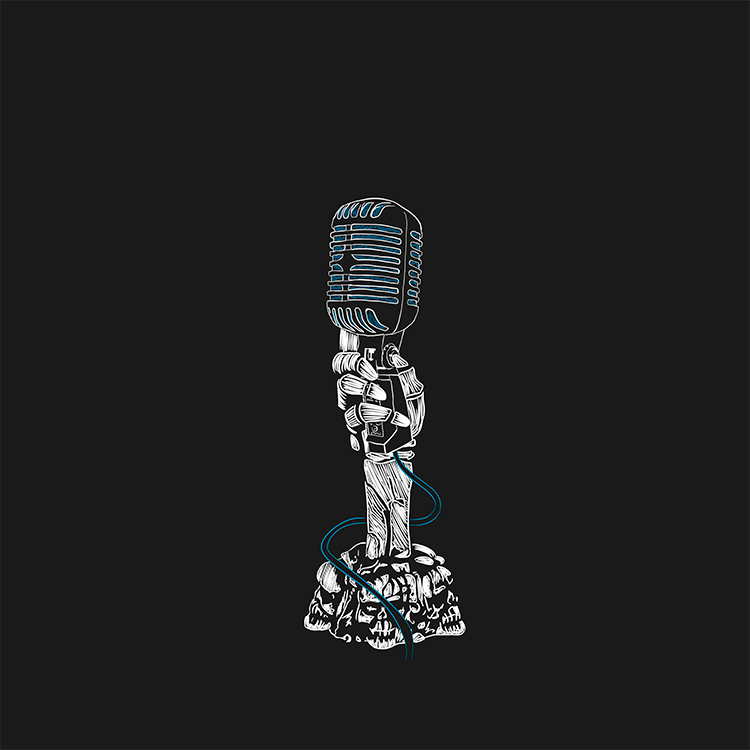
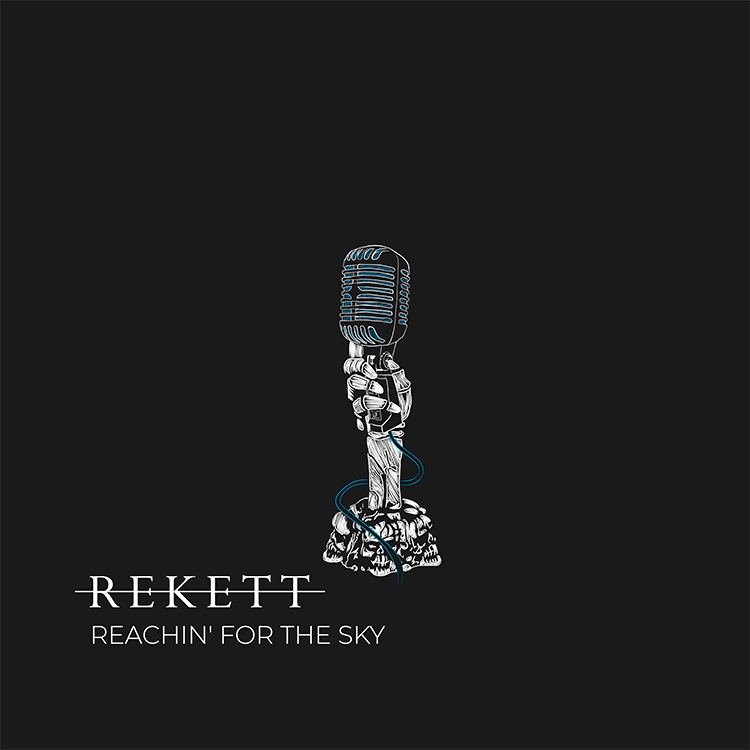
Frontpage changes
Replaces cover image on the frontpage to one with text on it

Changes the buttons in the tour list, to <a> tags with bootstrap classes

Changed region(s): [[0.092, 0.2453, 0.644, 0.8893]]

diff --git a/index.html b/index.html
@@ -53,7 +53,7 @@
             <img src="img/mic.jpg" alt="">
         </section>
         <section class="intro-sec">
-            <h3>Love Made Me Blind - Out Now!</h3>
+            <h3>Reachin' For The Sky - Out Now!</h3>
             <p>Listen to our lastest song today</p>
         </section>
         <section class="show-sec">
@@ -76,7 +76,8 @@
                             <p>Pumpehuset</p>
                         </td>
                         <td class="table-row-buy">
-                            <a href="#"><button><p class="ticket-btn-text">Tickets</p></button></a>
+                            <!-- <button action="google.com"><span class="ticket-btn-text">Tickets</span></button> -->
+                            <a class="btn btn-light" href="">Tickets</a>
                         </td>
                     </tr>
                     <tr>
@@ -93,7 +94,7 @@
                             <p>High Voltage</p>
                         </td>
                         <td class="table-row-buy">
-                            <a href="#"><button><p class="ticket-btn-text">Tickets</p></button></a>
+                            <a class="btn btn-light" href="">Tickets</a>
                         </td>
                     </tr>
                     <tr>
@@ -110,7 +111,7 @@
                             <p>Vega</p>
                         </td>
                         <td class="table-row-buy">
-                            <a href="#"><button><p class="ticket-btn-text">Tickets</p></button></a>
+                            <a class="btn btn-light" href="">Tickets</a>
                         </td>
                     </tr>
                     <tr>
@@ -127,7 +128,7 @@
                             <p>Rust</p>
                         </td>
                         <td class="table-row-buy">
-                            <a href="#"><button><p class="ticket-btn-text">Tickets</p></button></a>
+                            <a class="btn btn-light" href="">Tickets</a>
                         </td>
                     </tr>
                     <tr>
@@ -144,7 +145,7 @@
                             <p>Pumpehuset</p>
                         </td>
                         <td class="table-row-buy">
-                            <a href="#"><button><p class="ticket-btn-text">Tickets</p></button></a>
+                            <a class="btn btn-light" href="">Tickets</a>
                         </td>
                     </tr>
                     <tr>
@@ -161,7 +162,7 @@
                             <p>High Voltage</p>
                         </td>
                         <td class="table-row-buy">
-                            <a href="#"><button><p class="ticket-btn-text">Tickets</p></button></a>
+                            <a class="btn btn-light" href="">Tickets</a>
                         </td>
                     </tr>
                     <tr>
@@ -178,7 +179,7 @@
                             <p>Vega</p>
                         </td>
                         <td class="table-row-buy">
-                            <a href="#"><button><p class="ticket-btn-text">Tickets</p></button></a>
+                            <a class="btn btn-light" href="">Tickets</a>
                         </td>
                     </tr>
                     <tr>
@@ -195,7 +196,7 @@
                             <p>Rust</p>
                         </td>
                         <td class="table-row-buy">
-                            <a href="#"><button><p class="ticket-btn-text">Tickets</p></button></a>
+                            <a class="btn btn-light" href="">Tickets</a>
                         </td>
                     </tr>
                 </tbody>

diff --git a/css/stylesheet.css b/css/stylesheet.css
@@ -42,12 +42,6 @@
         color: gainsboro;
     }
     
-    button {
-        font-family: Montserrat-semi;
-        border-style: solid;
-        border-radius: 10px;
-    }
-    
     body {
         background-color: #202020;
         max-width: 98vw;
@@ -103,7 +97,7 @@
     
     .sub-title {
         margin: auto;
-        padding-bottom: 5%;
+        padding-bottom: 5.5%;
         padding-top: 5%;
     }
     /* Tour list */
@@ -137,24 +131,29 @@
     .table-row-date p,
     .table-row-country p,
     .table-row-city p,
-    .table-row-place p,
-    .table-row-buy p {
+    .table-row-place p {
         margin: auto;
         text-align: center;
     }
     
-    .table-row-buy p {
-        display: block;
-        margin: 0;
+    .btn {
+        border-style: solid;
+        border-radius: 10px;
+        border: var(--graa);
+        padding: 0;
+        padding-left: 7px;
+        padding-right: 7px;
+        padding-top: 1px;
+        padding-bottom: 1px;
     }
     
-    .table-row-buy img {
-        display: none;
+    .btn-light {
+        color: var(--sort);
     }
     
-    .ticket-row-buy button:hover {
+    .ticket-row-buy a:hover {
         text-decoration: none;
-        background-color: var(--graa);
+        background-color: var(--bluee);
     }
     
     .ticket-btn-text {
